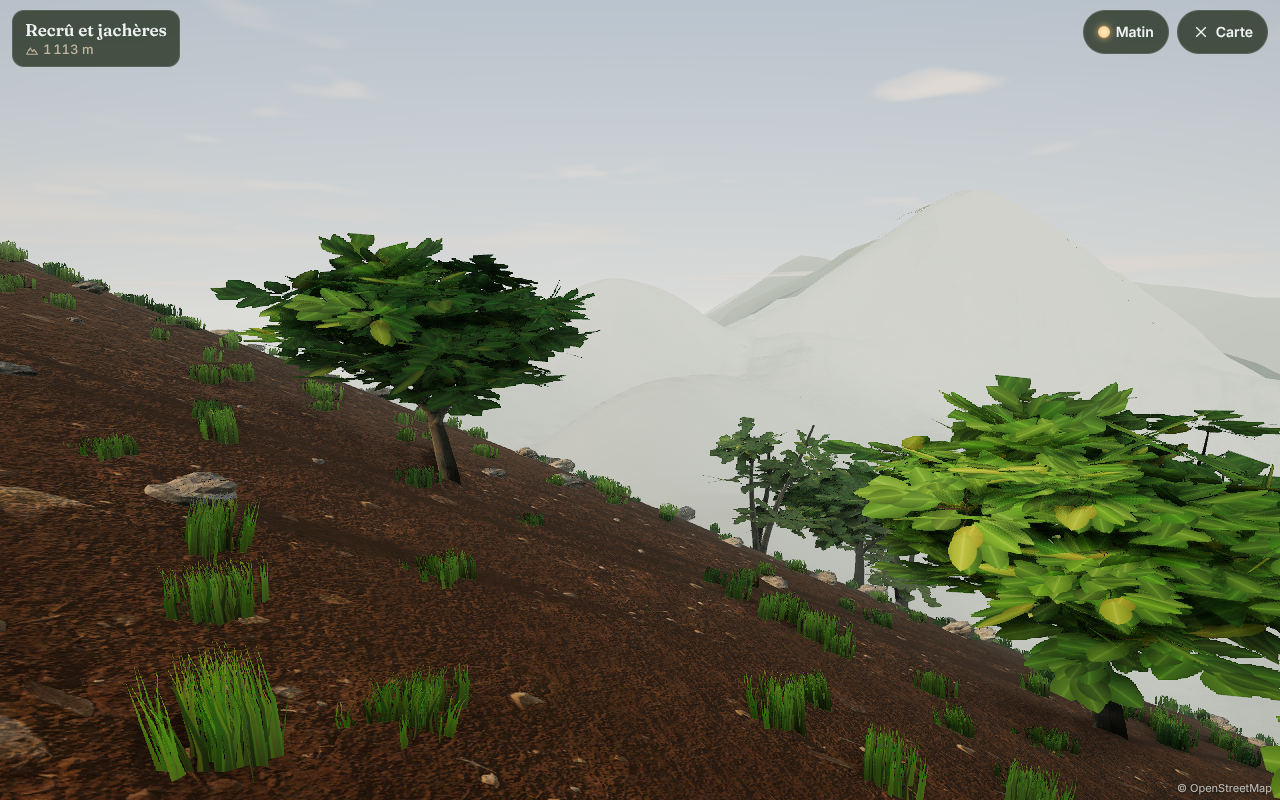
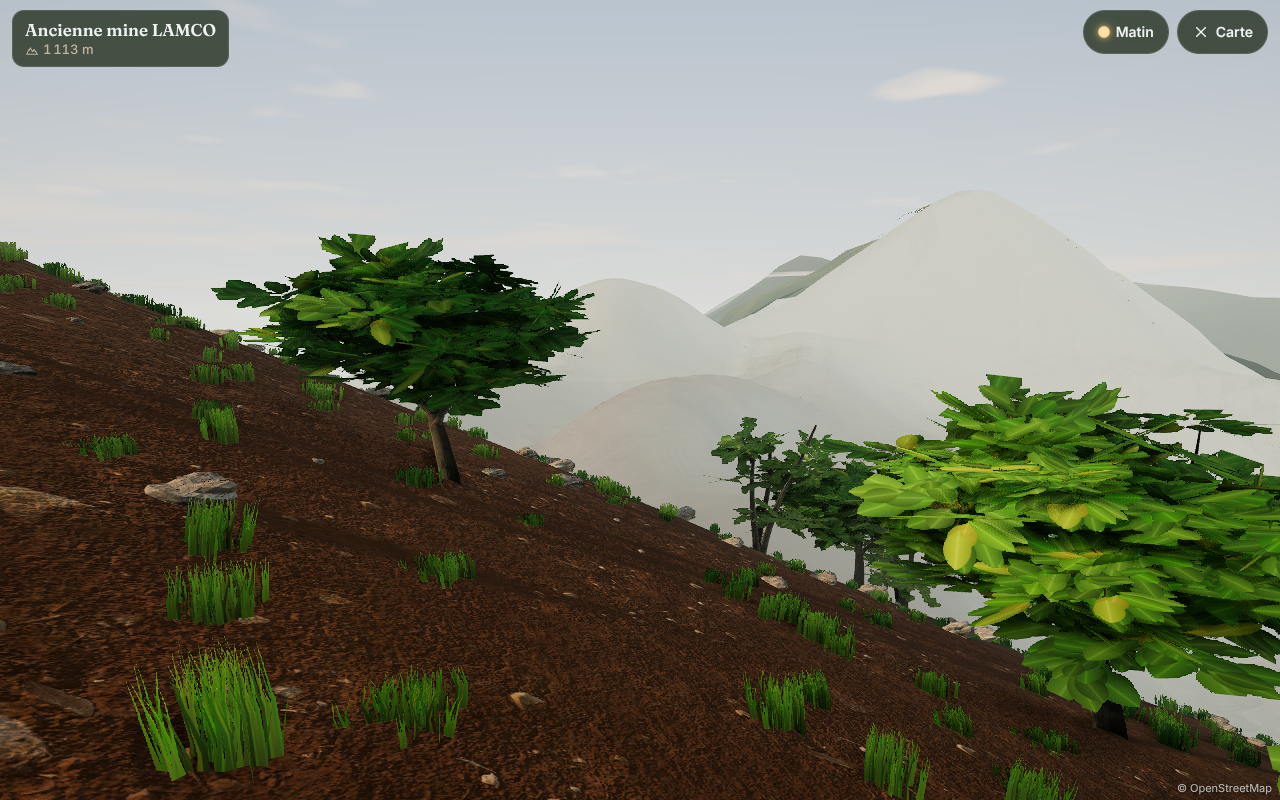
Walk mode: visible lakes at the measured level, place label and open-air fog
- Lakes were fully transparent (stream edge fade applied to world-scale UVs);
  still water is now flagged by flow and drawn with sky reflections
- Lake level = lower quartile of DEM heights inside the outline (was the
  lowest shore point, ~8 m under the water surface at the LAMCO pit lake)
- Place label follows the mapped surface (lakeshore, former mine, rock,
  sand, wetland, fields) before the habitat name
- Open mapped ground uses open-air fog instead of forest-creek fog

Claude-Session: https://claude.ai/code/session_01JpNJH8Bnnhs2dX6KzHn537

diff --git a/src/walk/water.ts b/src/walk/water.ts
@@ -21,24 +21,26 @@ export class Water {
         uniform float uTime; uniform vec3 uSky; uniform vec3 uSunView; uniform vec3 uSunColor; uniform vec3 uFogColor; uniform float uFogDensity; uniform float uHaze;
         varying vec2 vUv; varying vec3 vW; varying vec3 vWalkView; varying float vFlow;
         void main() {
-          vec2 q = vec2(vUv.x * 2.0, vUv.y - uTime * 0.9 * vFlow);
+          float lake = step(vFlow, 0.05); // still water (lakes, flooded pits) vs stream ribbons
+          vec2 q = mix(vec2(vUv.x * 2.0, vUv.y - uTime * 0.9 * vFlow), vUv + vec2(uTime * 0.015, uTime * 0.01), lake);
           float n1 = vnoise(q * vec2(3.0, 1.6), 3), n2 = vnoise(q * vec2(7.0, 4.0) + 3.1, 4);
-          vec3 nV = normalize(vec3(n1 * 0.25 + n2 * 0.12, 1.0, n2 * 0.2 - n1 * 0.1));
+          vec3 nV = normalize(vec3((n1 * 0.25 + n2 * 0.12) * (1.0 - lake * 0.75), 1.0, (n2 * 0.2 - n1 * 0.1) * (1.0 - lake * 0.75)));
           vec3 V = normalize(-vWalkView);
           vec3 Nv = normalize((viewMatrix * vec4(nV, 0.0)).xyz);
           float fres = pow(1.0 - max(dot(Nv, V), 0.0), 3.0);
           vec3 deep = vec3(0.035, 0.05, 0.03);
           // reflections of the forest more than the sky: streams run under the canopy
-          vec3 refl = mix(uSky * 0.75, vec3(0.08, 0.13, 0.06), 0.55);
+          // (open lakes mirror the sky)
+          vec3 refl = mix(uSky * 0.75, vec3(0.08, 0.13, 0.06), 0.55 - lake * 0.4);
           vec3 col = mix(deep, refl, 0.15 + fres * 0.6);
           vec3 R = reflect(-V, Nv);
           col += uSunColor * pow(max(dot(R, uSunView), 0.0), 120.0) * 2.0;
           // white water where the bed is steep
           col = mix(col, vec3(0.7), smoothstep(0.7, 0.98, n2 * 0.5 + 0.5) * clamp(vFlow - 1.0, 0.0, 1.0) * 0.35);
-          float edge = smoothstep(0.0, 0.18, vUv.x) * smoothstep(1.0, 0.82, vUv.x);
+          float edge = mix(smoothstep(0.0, 0.18, vUv.x) * smoothstep(1.0, 0.82, vUv.x), 1.0, lake);
           float d = length(vWalkView);
           col = mix(col, uFogColor, 1.0 - exp(-d * (uFogDensity + uHaze)));
-          gl_FragColor = vec4(col, (0.42 + fres * 0.4) * edge);
+          gl_FragColor = vec4(col, mix(0.42 + fres * 0.4, 0.86 + fres * 0.14, lake) * edge);
           #include <tonemapping_fragment>
           #include <colorspace_fragment>
         }`,
@@ -91,19 +93,16 @@ export class Water {
     for (const s of this.data.streamsNear(eye.x, eye.z, radius)) ribbon(s.p, 0.6 + Math.min(1, Math.sqrt(s.a) / 4) * 3.4);
     // … and the rivers and streams mapped in OpenStreetMap (real courses and widths)
     for (const rv of this.data.riversNear(eye.x, eye.z, radius)) ribbon(rv.p, Math.max(0.6, Math.min(4, rv.w / 2)));
-    // Lakes, reservoirs and flooded pits (OSM): flat still water just below the lowest shore point of the DEM
+    // Lakes, reservoirs and flooded pits (OSM): flat still water at the surface the DEM measured inside the outline
     for (const lk of this.data.lakesNear(eye.x, eye.z, radius + 400)) {
       const contour: THREE.Vector2[] = [];
-      let level = Infinity;
-      for (let k = 0; k < lk.p.length; k += 2) {
-        contour.push(new THREE.Vector2(lk.p[k], lk.p[k + 1]));
-        level = Math.min(level, this.data.baseHeight(lk.p[k], lk.p[k + 1]));
-      }
+      for (let k = 0; k < lk.p.length; k += 2) contour.push(new THREE.Vector2(lk.p[k], lk.p[k + 1]));
       if (contour.length > 3 && contour[0].distanceTo(contour[contour.length - 1]) < 0.01) contour.pop();
       if (contour.length < 3) continue;
+      const level = this.lakeLevel(lk.p);
       const tris = THREE.ShapeUtils.triangulateShape(contour, []);
       const b = pos.length / 3;
-      for (const v of contour) { pos.push(v.x, level - 0.35, v.y); uv.push(v.x / 12, v.y / 12); flow.push(0.04); }
+      for (const v of contour) { pos.push(v.x, level, v.y); uv.push(v.x / 12, v.y / 12); flow.push(0.04); }
       for (const t of tris) idx.push(b + t[0], b + t[2], b + t[1]);
     }
     const g = new THREE.BufferGeometry();
@@ -115,4 +114,25 @@ export class Water {
     this.mesh.geometry = g;
     return true;
   }
+
+  /** Water level of a lake outline: the DEM over water is the water surface, so take the lower quartile of the
+   *  heights sampled inside it (robust to shore cells and outliers), less a little so the shore stays dry. */
+  private lakeLevel(p: ArrayLike<number>): number {
+    let x0 = Infinity, x1 = -Infinity, z0 = Infinity, z1 = -Infinity;
+    for (let k = 0; k < p.length; k += 2) { x0 = Math.min(x0, p[k]); x1 = Math.max(x1, p[k]); z0 = Math.min(z0, p[k + 1]); z1 = Math.max(z1, p[k + 1]); }
+    const step = Math.max(4, Math.max(x1 - x0, z1 - z0) / 40);
+    const hs: number[] = [];
+    for (let x = x0 + step / 2; x < x1; x += step) for (let z = z0 + step / 2; z < z1; z += step) if (inside(p, x, z)) hs.push(this.data.baseHeight(x, z));
+    if (!hs.length) { let m = Infinity; for (let k = 0; k < p.length; k += 2) m = Math.min(m, this.data.baseHeight(p[k], p[k + 1])); return m - 0.35; }
+    hs.sort((a, b) => a - b);
+    return hs[Math.floor((hs.length - 1) * 0.25)] - 0.3;
+  }
+}
+
+function inside(p: ArrayLike<number>, x: number, z: number): boolean {
+  let c = false;
+  for (let i = 0, j = p.length - 2; i < p.length; j = i, i += 2) {
+    if ((p[i + 1] > z) !== (p[j + 1] > z) && x < ((p[j] - p[i]) * (z - p[i + 1])) / (p[j + 1] - p[i + 1]) + p[i]) c = !c;
+  }
+  return c;
 }

diff --git a/src/walk/index.ts b/src/walk/index.ts
@@ -8,7 +8,7 @@ import { t, fmtMeters } from '../i18n';
 import type { Content } from '../data/content';
 import type { Heightfield } from '../scene/heightfield';
 import type { Tier } from '../scene/tier';
-import { WalkData } from './data';
+import { AREA, WalkData } from './data';
 import { WalkEnv, WALK_TIMES, shared, walkMaterial, type WalkTime } from './env';
 import { Ground } from './ground';
 import { Forest } from './forest';
@@ -183,6 +183,7 @@ export async function enterWalk(ctx: WalkContext): Promise<WalkHandle> {
   let windowLoading = false;
   let relocating = false;
   let habitat: HabitatId = 'lowlandForest';
+  let air: HabitatId = habitat; // habitat that sets fog and canopy light (open mapped ground clears the air)
   const fogTint = new THREE.Color();
   let fpsT = 0, fpsN = 0, fpsChecks = 0;
 
@@ -213,12 +214,27 @@ export async function enterWalk(ctx: WalkContext): Promise<WalkHandle> {
     forest.setImpostorLight(env.time === 'mist' ? 0.62 : env.time === 'noon' ? 0.95 : 0.85);
   }
 
+  // Mapped surface under the walker or within ~15 m (a lake shore counts as the lake), for the place label.
+  function placeArea(): string | null {
+    const names: Record<number, string> = { [AREA.water]: 'water', [AREA.mine]: 'mine', [AREA.enclave]: 'enclave', [AREA.rock]: 'rock', [AREA.sand]: 'sand', [AREA.wetland]: 'wetland', [AREA.field]: 'field' };
+    let best = data.areaAt(pos.x, pos.z);
+    for (let i = 0; i < 8 && best !== AREA.water; i++) {
+      const a = (i / 8) * Math.PI * 2, c = data.areaAt(pos.x + Math.cos(a) * 15, pos.z + Math.sin(a) * 15);
+      if (c === AREA.water || (!best && c)) best = c;
+    }
+    const n = names[best];
+    if (n === 'mine' && pos.z > 8000) return 'lamco'; // the Liberian side, south of the massif (as in cards.ts)
+    return n ?? null;
+  }
+
   function updatePlace() {
     const b = biomeAt(data, pos.x, pos.z);
     habitat = habitatOf(b);
     const zone = data.zoneAt(pos.x, pos.z);
     const np = data.nearestPlace(pos.x, pos.z);
-    hud.setPlace(t(`walk.habitat.${habitat}`), fmtMeters(Math.round(pos.y)), !!zone, np && np.d < 1500 ? np.place.name : undefined);
+    const area = placeArea();
+    air = area && area !== 'wetland' && area !== 'enclave' ? 'savanna' : habitat;
+    hud.setPlace(t(area ? `walk.place.${area}` : `walk.habitat.${habitat}`), fmtMeters(Math.round(pos.y)), !!zone, np && np.d < 1500 ? np.place.name : undefined);
     ctx.onPosition?.(pos.x, pos.z);
   }
   updatePlace();
@@ -287,10 +303,10 @@ export async function enterWalk(ctx: WalkContext): Promise<WalkHandle> {
     village.update(eye, dt, shared.uTime.value);
     placeT += dt;
     if (placeT > 0.5) { placeT = 0; updatePlace(); }
-    const fog = fogFor(habitat, pos.y, fogTint);
+    const fog = fogFor(air, pos.y, fogTint);
     env.update(cam, eye, fog, fogTint, dt);
     // Under a closed canopy the sun barely reaches the floor: lift the sky fill a little (eyes adapt).
-    const closed = habitat === 'lowlandForest' || habitat === 'cloudForest' || habitat === 'gallery' ? 1 : 0;
+    const closed = air === 'lowlandForest' || air === 'cloudForest' || air === 'gallery' ? 1 : 0;
     canopyFill += (closed - canopyFill) * (1 - Math.exp(-dt * 0.7));
     env.hemi.intensity = env.preset.hemi * (1 + canopyFill * 0.7) * (fx ? 0.85 : 1);
     renderer.toneMappingExposure = env.exposure * (1 + canopyFill * 0.38);
@@ -447,6 +463,7 @@ export async function enterWalk(ctx: WalkContext): Promise<WalkHandle> {
       get pos() { return pos.clone(); },
       get stats() { return forest.stats; },
       get habitat() { return habitat; },
+      water, data,
       look(yaw: number, pitch: number) { controls.yaw = yaw; controls.pitch = pitch; },
       teleport: (x: number, z: number) => relocate(x, z),
       setTime(tm: WalkTime) { env.setTime(tm); applyTime(); },

diff --git a/docs/BUILD_NOTES.md b/docs/BUILD_NOTES.md
@@ -410,3 +410,15 @@ Steep rock and mine faces use triplanar mapping, so cliffs do not stretch. The d
 * `check-walk-flow` passes.
 * `check-panel` covers all 23 hotspots in FR and EN, on phone and desktop.
 * Terrain screenshots: `docs/screens/terrain-*.png`.
+
+### Lakes, place label and open-air fog (follow-up)
+- **Lakes were invisible:** they reused the stream shader, whose edge fade is driven by the ribbon's u coordinate
+  (0..1 across a stream). Lake UVs are world-scale, so the fade was 0 everywhere. Still water is now flagged by its
+  flow attribute (< 0.05) and drawn opaque-ish with sky reflections and slow ripples.
+- **Lake level:** the lowest shore point sat ~8 m under the measured water surface at the LAMCO pit lake (shore
+  outliers). The DEM over water is the water surface, so the level is now the lower quartile of heights sampled
+  inside the outline, − 0.3 m (pit lake: ≈ 852.8 m; interior median 853.4 m).
+- **Place label** follows the mapped surface under the walker or within 15 m (lakeshore, former mine / LAMCO,
+  rock, sand, wetland, fields, enclave) before the habitat name (it said "stream bank" next to the pit lake).
+- **Fog:** open mapped ground (water, mines, rock, sand, fields) uses open-air fog instead of the forest-creek fog
+  that turned the open pit into a white wall.
